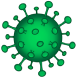
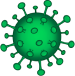
The chain of viruses are now different viruses

diff --git a/core/src/com/mygdx/chalmersdefense/Model/VirusFactory.java b/core/src/com/mygdx/chalmersdefense/Model/VirusFactory.java
@@ -12,24 +12,28 @@ import com.badlogic.gdx.graphics.g2d.Sprite;
 public abstract class VirusFactory {
 
     private static final Texture redVirus = new Texture("redVirus.png");
+    private static final Texture blueVirus = new Texture("blueVirus.png");
+    private static final Texture greenVirus = new Texture("greenVirus.png");
+    private static final Texture yellowVirus = new Texture("yellowVirus.png");
+    private static final Texture pinkVirus = new Texture("pinkVirus.png");
 
     static public synchronized Virus createVirusOne(){
         return new Virus(1, new Sprite(redVirus));
     }
 
     static public synchronized Virus createVirusTwo(){
-        return new Virus(1, new Sprite(redVirus));
+        return new Virus(2, new Sprite(blueVirus));
     }
 
     static public synchronized Virus createVirusThree(){
-        return new Virus(1, new Sprite(redVirus));
+        return new Virus(3, new Sprite(greenVirus));
     }
 
     static public synchronized Virus createVirusFour(){
-        return new Virus(1, new Sprite(redVirus));
+        return new Virus(4, new Sprite(yellowVirus));
     }
 
     static public synchronized Virus createVirusFive(){
-        return new Virus(1, new Sprite(redVirus));
+        return new Virus(5, new Sprite(pinkVirus));
     }
 }

diff --git a/core/src/com/mygdx/chalmersdefense/Model/SpawnViruses.java b/core/src/com/mygdx/chalmersdefense/Model/SpawnViruses.java
@@ -12,7 +12,7 @@ import java.util.concurrent.TimeUnit;
  */
 public class SpawnViruses {
 
-    private final String[][] spawnInfo = {{"1|3000", "1|500", "1|500", "1|1000", "1|1000", "1|500", "1|500", "1|1000"}};
+    private final String[][] spawnInfo = {{"1|3000", "2|500", "3|500", "4|1000", "5|1000", "5|500", "1|500", "2|1000"}};
     private final ScheduledExecutorService executorService = Executors.newSingleThreadScheduledExecutor();
     private List<Virus> listToAddTo;
     private boolean isSpawning = false;
@@ -44,7 +44,10 @@ public class SpawnViruses {
 
             switch (Integer.parseInt(splitedWave[0])) {
                 case 1 -> listToAddTo.add(VirusFactory.createVirusOne());     // Måste ha blivit kallat 1 gång utan executorservice, annars slutar den gå eftersom den inte kan skapa en ny textur
-
+                case 2 -> listToAddTo.add(VirusFactory.createVirusTwo());
+                case 3 -> listToAddTo.add(VirusFactory.createVirusThree());
+                case 4 -> listToAddTo.add(VirusFactory.createVirusFour());
+                case 5 -> listToAddTo.add(VirusFactory.createVirusFive());
             }
 
             waveIndex++;

diff --git a/core/src/com/mygdx/chalmersdefense/Views/GameScreen.java b/core/src/com/mygdx/chalmersdefense/Views/GameScreen.java
@@ -12,6 +12,7 @@ import com.mygdx.chalmersdefense.Model.VirusFactory;
 
 import java.util.ArrayList;
 import java.util.Collections;
+import java.util.Iterator;
 import java.util.List;
 
 public class GameScreen implements Screen {
@@ -39,7 +40,7 @@ public class GameScreen implements Screen {
 
     @Override
     public void render(float delta) {
-        for (Virus virus: allViruses) {
+        for (Virus virus: allViruses) {     // Om den lägger till ett virus exakt samtidigt blir det inte bra
             virus.update();
             virus.getSprite().draw(batch);
         }
